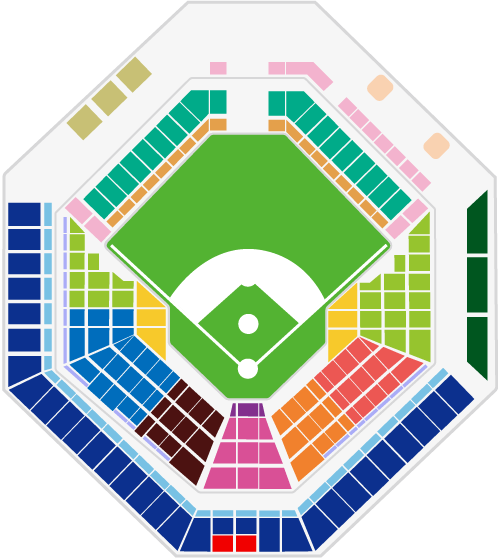
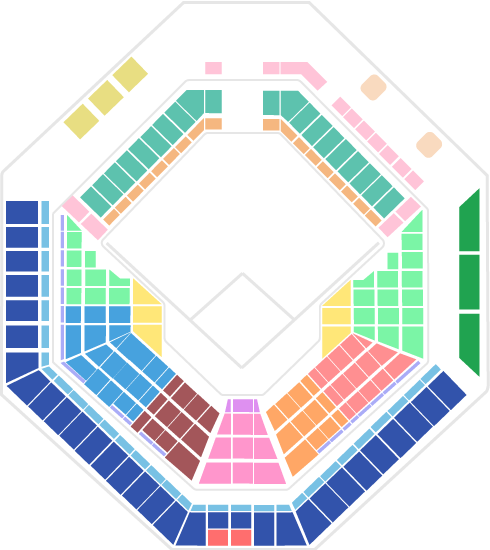
feat: 열심히 좌표 찍고 핀도 한번 고민 해봅시다

diff --git a/front-end/src/pages/before_match/SectionDetail.jsx b/front-end/src/pages/before_match/SectionDetail.jsx
@@ -1,7 +1,7 @@
 import React, { useState, useEffect } from 'react';
 import { useLocation, useSearchParams } from 'react-router-dom';
 import { useNavigate } from 'react-router'
-
+import { TransformWrapper, TransformComponent } from 'react-zoom-pan-pinch'
 import arrow from './img/arrow.png'
 import ImageMap from 'image-map';
 import mapImg from './img/sectionMap.png'
@@ -53,9 +53,207 @@ export default function SectionDetail() {
     const x = event.clientX
     const y = event.clientY -650
     setPinCoords({x, y})
-
   }
-  console.log(pinCoords)
+
+  function getCoordinate(e) {
+    console.log(e.nativeEvent.offsetX)
+    console.log(e.nativeEvent.offsetY)
+    const x = e.nativeEvent.offsetX
+    const y = e.nativeEvent.offsetY
+
+    if (7 <= x && x <= 37 && 201 <= y && y <= 223) {
+      setSeatUrl(seatUrl => {
+        seatUrl = imageUrl + "SKY1/1.jpg"
+        return seatUrl
+      })
+    }
+    else if (7 <= x && x <= 37 && 227 <= y && y <= 247) {
+      setSeatUrl(seatUrl => {
+        seatUrl = imageUrl + "SKY1/2.jpg"
+        return seatUrl
+      })
+    }
+    else if (7 <= x && x <= 37 && 251 <= y && y <= 271) {
+      setSeatUrl(seatUrl => {
+        seatUrl = imageUrl + "SKY1/3.jpg"
+        return seatUrl
+      })
+    }
+    else if (7 <= x && x <= 37 && 276 <= y && y <= 296) {
+      setSeatUrl(seatUrl => {
+        seatUrl = imageUrl + "SKY1/4.jpg"
+        return seatUrl
+      })
+    }
+    else if (7 <= x && x <= 37 && 301 <= y && y <= 321) {
+      setSeatUrl(seatUrl => {
+        seatUrl = imageUrl + "SKY1/5.jpg"
+        return seatUrl
+      })
+    }
+    else if (7 <= x && x <= 37 && 326 <= y && y <= 346) {
+      setSeatUrl(seatUrl => {
+        seatUrl = imageUrl + "SKY1/6.jpg"
+        return seatUrl
+      })
+    }
+    else if (7 <= x && x <= 37 && 353 <= y && y <= 371) {
+      setSeatUrl(seatUrl => {
+        seatUrl = imageUrl + "SKY1/7.jpg"
+        return seatUrl
+      })
+    }
+    else if (20 <= x && x <= 40 && 381 <= y && y <= 390) {
+      setSeatUrl(seatUrl => {
+        seatUrl = imageUrl + "SKY2/1.jpg"
+        return seatUrl
+      })
+    }
+    else if (40 <= x && x <= 54 && 395 <= y && y <= 405) {
+      setSeatUrl(seatUrl => {
+        seatUrl = imageUrl + "SKY2/2.jpg"
+        return seatUrl
+      })
+    }
+    else if (55 <= x && x <= 69 && 410 <= y && y <= 423) {
+      setSeatUrl(seatUrl => {
+        seatUrl = imageUrl + "SKY2/3.jpg"
+        return seatUrl
+      })
+    }
+    else if (71 <= x && x <= 85 && 423 <= y && y <= 437) {
+      setSeatUrl(seatUrl => {
+        seatUrl = imageUrl + "SKY2/4.jpg"
+        return seatUrl
+      })
+    }
+    else if (86 <= x && x <= 100 && 439 <= y && y <= 452) {
+      setSeatUrl(seatUrl => {
+        seatUrl = imageUrl + "SKY2/5.jpg"
+        return seatUrl
+      })
+    }
+    else if (103 <= x && x <= 117 && 453 <= y && y <= 466) {
+      setSeatUrl(seatUrl => {
+        seatUrl = imageUrl + "SKY3/1.jpg"
+        return seatUrl
+      })
+    }
+    else if (118 <= x && x <= 132 && 469 <= y && y <= 481) {
+      setSeatUrl(seatUrl => {
+        seatUrl = imageUrl + "SKY3/2.jpg"
+        return seatUrl
+      })
+    }
+    else if (135 <= x && x <= 147 && 482 <= y && y <= 496) {
+      setSeatUrl(seatUrl => {
+        seatUrl = imageUrl + "SKY3/3.jpg"
+        return seatUrl
+      })
+    }
+    else if (149 <= x && x <= 163 && 498 <= y && y <= 511) {
+      setSeatUrl(seatUrl => {
+        seatUrl = imageUrl + "SKY3/4.jpg"
+        return seatUrl
+      })
+    }
+    else if (165 <= x && x <= 180 && 512 <= y && y <= 528) {
+      setSeatUrl(seatUrl => {
+        seatUrl = imageUrl + "SKY3/5.jpg"
+        return seatUrl
+      })
+    }
+    else if (187 <= x && x <= 206 && 522 <= y && y <= 545) {
+      setSeatUrl(seatUrl => {
+        seatUrl = imageUrl + "SKY4/1.jpg"
+        return seatUrl
+      })
+    }
+    else if (210 <= x && x <= 225 && 512 <= y && y <= 545) {
+      setSeatUrl(seatUrl => {
+        seatUrl = imageUrl + "SKY4/2.jpg"
+        return seatUrl
+      })
+    }
+    else if (231 <= x && x <= 249 && 512 <= y && y <= 545) {
+      setSeatUrl(seatUrl => {
+        seatUrl = imageUrl + "SKY4/3.jpg"
+        return seatUrl
+      })
+    }
+    else if (254 <= x && x <= 272 && 512 <= y && y <= 545) {
+      setSeatUrl(seatUrl => {
+        seatUrl = imageUrl + "SKY4/4.jpg"
+        return seatUrl
+      })
+    }
+    else if (277 <= x && x <= 298 && 521 <= y && y <= 545) {
+      setSeatUrl(seatUrl => {
+        seatUrl = imageUrl + "SKY4/5.jpg"
+        return seatUrl
+      })
+    }
+    else if (306 <= x && x <= 316 && 509 <= y && y <= 534) {
+      setSeatUrl(seatUrl => {
+        seatUrl = imageUrl + "SKY5/1.jpg"
+        return seatUrl
+      })
+    }
+    else if (321 <= x && x <= 336 && 492 <= y && y <= 511) {
+      setSeatUrl(seatUrl => {
+        seatUrl = imageUrl + "SKY5/2.jpg"
+        return seatUrl
+      })
+    }
+    else if (339 <= x && x <= 353 && 475 <= y && y <= 497) {
+      setSeatUrl(seatUrl => {
+        seatUrl = imageUrl + "SKY5/3.jpg"
+        return seatUrl
+      })
+    }
+    else if (355 <= x && x <= 371 && 462 <= y && y <= 480) {
+      setSeatUrl(seatUrl => {
+        seatUrl = imageUrl + "SKY5/4.jpg"
+        return seatUrl
+      })
+    }
+    else if (372 <= x && x <= 386 && 447 <= y && y <= 463) {
+      setSeatUrl(seatUrl => {
+        seatUrl = imageUrl + "SKY6/1.jpg"
+        return seatUrl
+      })
+    }
+    else if (390 <= x && x <= 405 && 432 <= y && y <= 447) {
+      setSeatUrl(seatUrl => {
+        seatUrl = imageUrl + "SKY6/2.jpg"
+        return seatUrl
+      })
+    }
+    else if (404 <= x && x <= 421 && 416 <= y && y <= 430) {
+      setSeatUrl(seatUrl => {
+        seatUrl = imageUrl + "SKY6/3.jpg"
+        return seatUrl
+      })
+    }
+    else if (421 <= x && x <= 437 && 399 <= y && y <= 414) {
+      setSeatUrl(seatUrl => {
+        seatUrl = imageUrl + "SKY6/4.jpg"
+        return seatUrl
+      })
+    }
+    else if (440 <= x && x <= 455 && 385 <= y && y <= 399) {
+      setSeatUrl(seatUrl => {
+        seatUrl = imageUrl + "SKY6/5.jpg"
+        return seatUrl
+      })
+    }
+    else if (41 <= x && x <= 49 && 201 <= y && y <= 224) {
+      setSeatUrl(seatUrl => {
+        seatUrl = imageUrl + "SKY6/5.jpg"
+        return seatUrl
+      })
+    }
+  }
 
   useEffect(() => {
     ImageMap('img[useMap]')
@@ -73,7 +271,20 @@ export default function SectionDetail() {
         </div>
       </div>
 
-      <div className='map-controller'>
+
+      <TransformWrapper
+        initialScale={3}
+        initialPositionX={-400}
+        initialPositionY={-300}
+      >
+        <TransformComponent>
+          <div onClick={getCoordinate}>
+            <div className='pin'></div>
+            <img src={mapImg} alt="" />
+          </div>
+        </TransformComponent>
+      </TransformWrapper>
+      {/* <div className='map-controller'>
         <img src={`https://laon.info/images/sectionSelect/${sectionName}.png`} useMap={`#${sectionName}`} />
 
         <img src={pin} style={{
@@ -388,7 +599,7 @@ export default function SectionDetail() {
           <area onClick={selectSeat} alt="yogibo_1" title="yogibo_1" coords="247,214,247,254,299,254,299,213" shape="poly" />
           <area onClick={selectSeat} alt="yogibo_2" title="yogibo_2" coords="308,212,308,253,359,253,359,213" shape="poly" />
         </map>
-      </div>
+      </div> */}
     </div>
   )
 }

diff --git a/front-end/src/pages/before_match/styles/SectionDetail.css b/front-end/src/pages/before_match/styles/SectionDetail.css
@@ -1,3 +1,7 @@
+.section-detail-container {
+  height: 100vh;
+}
+
 .section-detail-header {
   /* padding: 1rem; */
   display: flex;
@@ -18,12 +22,12 @@
   justify-content: center;
   align-items: flex-start;
   overflow: scroll;
-  height: 77vh;
+  height: 85vh;
   scrollbar-width: none;
 }
 
 .section-detail-img img{
-  height: 77vh;
+  height: 85vh;
 }
 
 .section-detail-body::-webkit-scrollbar {
@@ -59,6 +63,23 @@
   object-fit: cover;
 }
 
-.pinImages{
+.react-transform-wrapper {
   position: absolute;
+  padding: 1vh 3vw;
+  width: 94vw;
+  height: 26vh;
+  bottom: 13vh;
+  /* border: 1px solid red; */
+  border-radius: 140px 140px 0px 0px;
+  position: relative;
+  background-color: rgb(237, 237, 237);
+}
+
+.pin {
+  position: absolute;
+  width: 5px;
+  height: 5px;
+  border-radius: 100%;
+  background-color: red;
+  top: 10px;
 }
